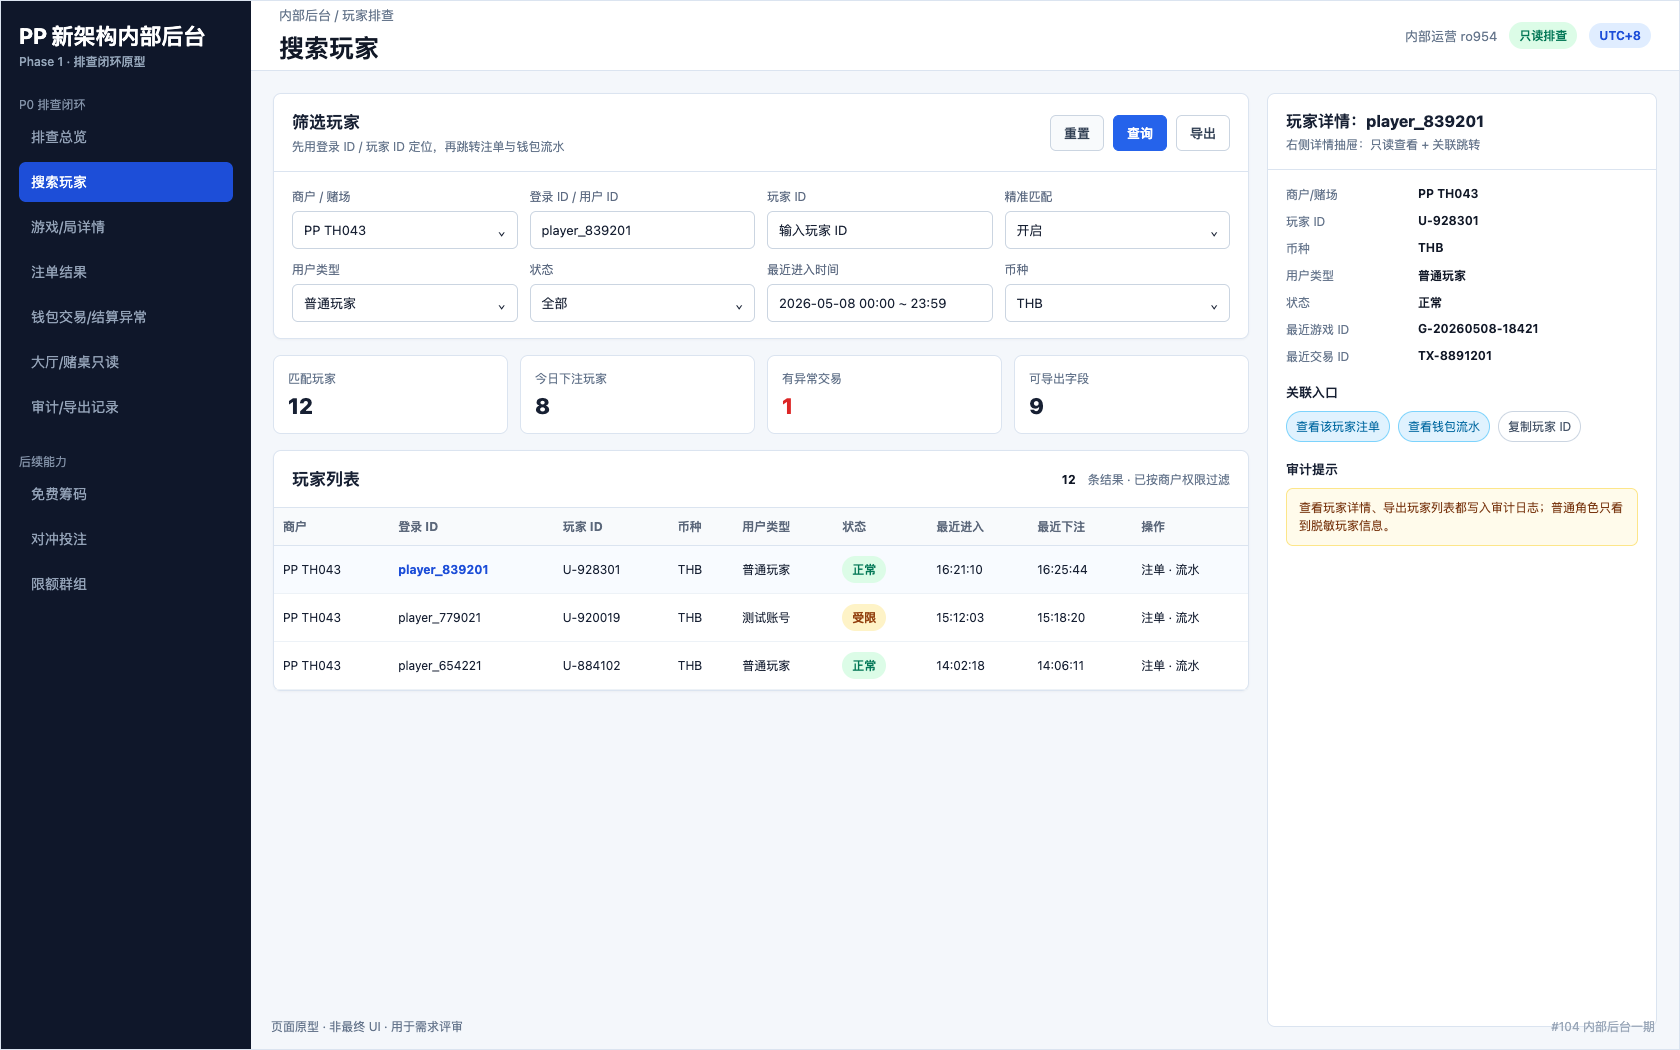
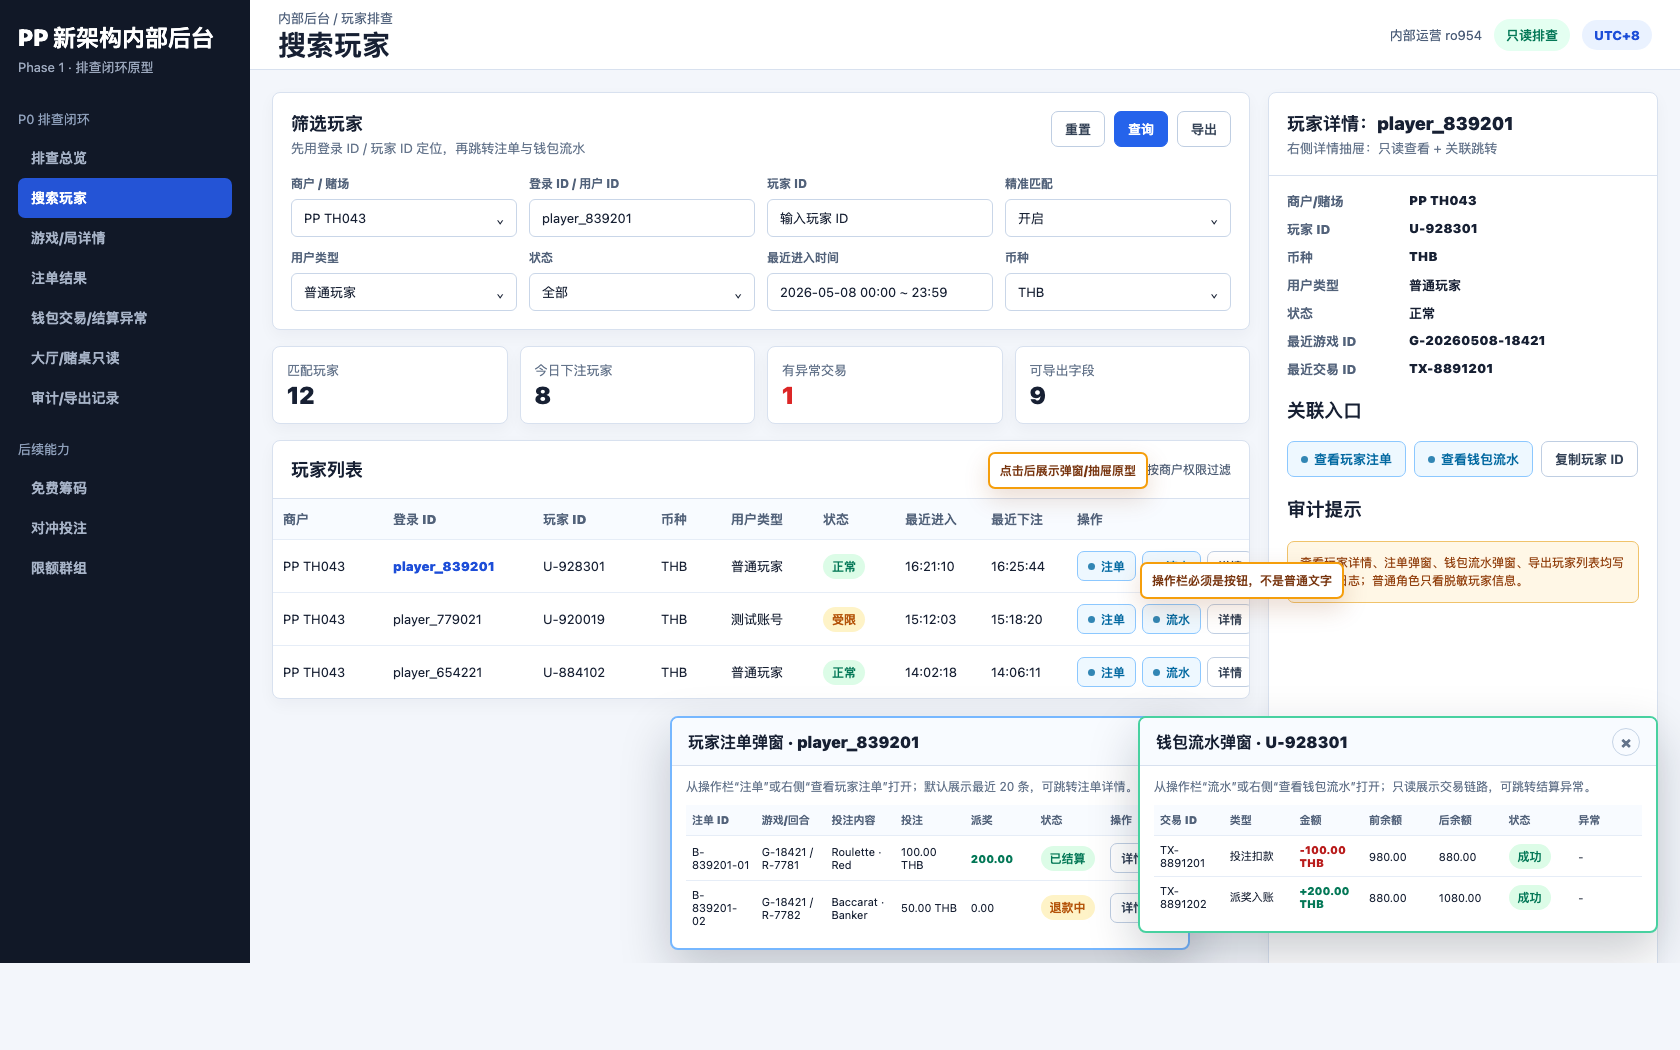
docs(pp-game): improve player search prototype actions

diff --git a/pp-game/internal-backoffice-phase1/prototypes/01-search-player-v2.html b/pp-game/internal-backoffice-phase1/prototypes/01-search-player-v2.html
@@ -1,0 +1,221 @@
+<!doctype html>
+<html lang="zh-CN">
+<head>
+  <meta charset="utf-8">
+  <meta name="viewport" content="width=device-width, initial-scale=1">
+  <title>搜索玩家页面原型 v2</title>
+  <style>
+    :root {
+      --nav: #111827;
+      --bg: #f3f6fb;
+      --panel: #fff;
+      --line: #d8e1ef;
+      --muted: #64748b;
+      --text: #172033;
+      --blue: #2563eb;
+      --blue-soft: #eaf2ff;
+      --green: #0f9f6e;
+      --green-soft: #dcfce7;
+      --amber: #b45309;
+      --amber-soft: #fef3c7;
+      --red: #dc2626;
+      --red-soft: #fee2e2;
+    }
+    * { box-sizing: border-box; }
+    body {
+      margin: 0;
+      width: 1680px;
+      height: 1050px;
+      overflow: hidden;
+      background: var(--bg);
+      color: var(--text);
+      font-family: -apple-system, BlinkMacSystemFont, "Segoe UI", "PingFang SC", "Microsoft YaHei", Arial, sans-serif;
+      letter-spacing: 0;
+    }
+    .app { display: grid; grid-template-columns: 250px 1fr; height: 1050px; }
+    .sidebar { background: var(--nav); color: #d6deef; padding: 22px 18px; }
+    .brand { color: #fff; font-size: 23px; font-weight: 900; margin-bottom: 4px; }
+    .phase { font-size: 13px; color: #9ca8bd; margin-bottom: 34px; }
+    .nav-title { color: #8fa0bb; font-size: 13px; margin: 22px 0 10px; }
+    .nav-item { height: 40px; display: flex; align-items: center; padding: 0 13px; border-radius: 7px; font-weight: 700; font-size: 14px; }
+    .nav-item.active { background: #2454d6; color: #fff; }
+    .nav-item.dim { color: #a8b4c8; }
+    .main { display: grid; grid-template-rows: 70px 1fr; min-width: 0; }
+    .topbar { background: #fff; border-bottom: 1px solid var(--line); display: flex; justify-content: space-between; align-items: center; padding: 0 28px; }
+    .crumb { color: #51627c; font-size: 13px; }
+    h1 { margin: 3px 0 0; font-size: 28px; line-height: 1.1; }
+    .user { display: flex; gap: 12px; align-items: center; font-size: 13px; color: #4b5d78; }
+    .badge { border-radius: 999px; background: #e4fff1; color: #047857; padding: 7px 12px; font-weight: 800; }
+    .utc { border-radius: 999px; background: #eaf2ff; color: #1d4ed8; padding: 7px 12px; font-weight: 800; }
+    .content { position: relative; padding: 22px; display: grid; grid-template-columns: minmax(0, 1fr) 390px; gap: 18px; }
+    .card { background: var(--panel); border: 1px solid var(--line); border-radius: 8px; box-shadow: 0 6px 16px rgba(15, 23, 42, .04); }
+    .filter { padding: 18px; }
+    .card-title { font-size: 18px; font-weight: 900; margin-bottom: 3px; }
+    .hint { color: var(--muted); font-size: 13px; }
+    .filter-head { display: flex; justify-content: space-between; gap: 14px; align-items: start; margin-bottom: 18px; }
+    .actions { display: flex; gap: 9px; }
+    .btn { height: 36px; border-radius: 7px; border: 1px solid #bfcee2; background: #fff; color: #334155; padding: 0 13px; font-weight: 800; font-size: 13px; display: inline-flex; align-items: center; justify-content: center; white-space: nowrap; }
+    .btn.primary { border-color: var(--blue); background: var(--blue); color: #fff; }
+    .btn.soft { border-color: #8cc8ff; background: #eef8ff; color: #0369a1; }
+    .btn.small { height: 30px; padding: 0 10px; font-size: 12px; }
+    .btn.icon::before { content: ""; width: 7px; height: 7px; border-radius: 50%; background: currentColor; margin-right: 6px; opacity: .8; }
+    .fields { display: grid; grid-template-columns: repeat(4, 1fr); gap: 12px; }
+    label { display: block; color: #52627a; font-size: 12px; font-weight: 800; margin-bottom: 7px; }
+    .input { height: 38px; border: 1px solid #c9d6e8; border-radius: 6px; padding: 0 12px; display: flex; align-items: center; justify-content: space-between; background: #fff; font-size: 13px; }
+    .metrics { display: grid; grid-template-columns: repeat(4, 1fr); gap: 12px; margin: 16px 0; }
+    .metric { padding: 14px; }
+    .metric .num { font-size: 24px; font-weight: 900; margin-top: 2px; }
+    .table-card { overflow: hidden; }
+    .table-head { display: flex; justify-content: space-between; align-items: center; padding: 16px 18px; border-bottom: 1px solid var(--line); }
+    .table-title { font-size: 18px; font-weight: 900; }
+    .result { font-size: 12px; color: #4d5d75; }
+    table { width: 100%; border-collapse: collapse; table-layout: fixed; }
+    th, td { border-bottom: 1px solid #e6edf7; text-align: left; padding: 11px 10px; font-size: 13px; vertical-align: middle; }
+    th { color: #52627a; background: #f8fbff; font-weight: 900; }
+    tr:last-child td { border-bottom: 0; }
+    .link { color: #1d4ed8; font-weight: 900; }
+    .status { display: inline-flex; border-radius: 999px; padding: 4px 9px; font-size: 12px; font-weight: 900; }
+    .ok { color: #047857; background: var(--green-soft); }
+    .limit { color: var(--amber); background: var(--amber-soft); }
+    .op-buttons { display: flex; gap: 6px; flex-wrap: nowrap; }
+    .side { overflow: hidden; }
+    .side-head { padding: 18px; border-bottom: 1px solid var(--line); }
+    .side-body { padding: 16px 18px; }
+    .kv { display: grid; grid-template-columns: 112px 1fr; gap: 10px; font-size: 13px; margin-bottom: 10px; }
+    .kv span:first-child { color: #52627a; font-weight: 800; }
+    .kv span:last-child { font-weight: 900; }
+    .entry-actions { display: flex; gap: 8px; margin: 10px 0 18px; flex-wrap: wrap; }
+    .audit { border: 1px solid #f0c36b; background: #fff7e6; color: #92400e; border-radius: 7px; padding: 12px; font-size: 12px; line-height: 1.5; }
+    .drawer { position: absolute; width: 520px; background: #fff; border: 2px solid #76b7ff; border-radius: 8px; box-shadow: 0 20px 50px rgba(15, 23, 42, .22); overflow: hidden; }
+    .drawer.bet { left: 420px; top: 646px; }
+    .drawer.wallet { right: 22px; top: 646px; border-color: #48d1a0; }
+    .drawer-head { height: 48px; display: flex; justify-content: space-between; align-items: center; padding: 0 16px; border-bottom: 1px solid var(--line); background: #f8fbff; }
+    .drawer-title { font-size: 16px; font-weight: 900; }
+    .close { width: 28px; height: 28px; border-radius: 50%; border: 1px solid #c6d4e6; display: flex; align-items: center; justify-content: center; color: #64748b; font-weight: 900; }
+    .drawer-body { padding: 12px 14px 14px; }
+    .drawer-note { font-size: 12px; color: var(--muted); margin-bottom: 10px; }
+    .mini-table th, .mini-table td { padding: 7px 6px; font-size: 11px; }
+    .money-plus { color: #047857; font-weight: 900; }
+    .money-minus { color: #b91c1c; font-weight: 900; }
+    .callout { position: absolute; background: #fff; border: 2px solid #f59e0b; color: #78350f; border-radius: 7px; padding: 8px 10px; font-size: 12px; font-weight: 900; box-shadow: 0 10px 24px rgba(146, 64, 14, .18); }
+    .callout.one { left: 890px; top: 492px; }
+    .callout.two { right: 532px; top: 382px; }
+    .footer { position: absolute; left: 272px; bottom: 8px; color: #75859d; font-size: 12px; }
+  </style>
+</head>
+<body>
+  <div class="app">
+    <aside class="sidebar">
+      <div class="brand">PP 新架构内部后台</div>
+      <div class="phase">Phase 1 · 排查闭环原型</div>
+      <div class="nav-title">P0 排查闭环</div>
+      <div class="nav-item dim">排查总览</div>
+      <div class="nav-item active">搜索玩家</div>
+      <div class="nav-item dim">游戏/局详情</div>
+      <div class="nav-item dim">注单结果</div>
+      <div class="nav-item dim">钱包交易/结算异常</div>
+      <div class="nav-item dim">大厅/赌桌只读</div>
+      <div class="nav-item dim">审计/导出记录</div>
+      <div class="nav-title">后续能力</div>
+      <div class="nav-item dim">免费筹码</div>
+      <div class="nav-item dim">对冲投注</div>
+      <div class="nav-item dim">限额群组</div>
+    </aside>
+    <main class="main">
+      <header class="topbar">
+        <div>
+          <div class="crumb">内部后台 / 玩家排查</div>
+          <h1>搜索玩家</h1>
+        </div>
+        <div class="user"><span>内部运营 ro954</span><span class="badge">只读排查</span><span class="utc">UTC+8</span></div>
+      </header>
+      <section class="content">
+        <div>
+          <div class="card filter">
+            <div class="filter-head">
+              <div>
+                <div class="card-title">筛选玩家</div>
+                <div class="hint">先用登录 ID / 玩家 ID 定位，再跳转注单与钱包流水</div>
+              </div>
+              <div class="actions"><button class="btn">重置</button><button class="btn primary">查询</button><button class="btn">导出</button></div>
+            </div>
+            <div class="fields">
+              <div><label>商户 / 赌场</label><div class="input">PP TH043 <span>⌄</span></div></div>
+              <div><label>登录 ID / 用户 ID</label><div class="input">player_839201</div></div>
+              <div><label>玩家 ID</label><div class="input">输入玩家 ID</div></div>
+              <div><label>精准匹配</label><div class="input">开启 <span>⌄</span></div></div>
+              <div><label>用户类型</label><div class="input">普通玩家 <span>⌄</span></div></div>
+              <div><label>状态</label><div class="input">全部 <span>⌄</span></div></div>
+              <div><label>最近进入时间</label><div class="input">2026-05-08 00:00 ~ 23:59</div></div>
+              <div><label>币种</label><div class="input">THB <span>⌄</span></div></div>
+            </div>
+          </div>
+          <div class="metrics">
+            <div class="card metric"><div class="hint">匹配玩家</div><div class="num">12</div></div>
+            <div class="card metric"><div class="hint">今日下注玩家</div><div class="num">8</div></div>
+            <div class="card metric"><div class="hint">有异常交易</div><div class="num" style="color: var(--red);">1</div></div>
+            <div class="card metric"><div class="hint">可导出字段</div><div class="num">9</div></div>
+          </div>
+          <div class="card table-card">
+            <div class="table-head"><div class="table-title">玩家列表</div><div class="result"><b>12</b> 条结果 · 已按商户权限过滤</div></div>
+            <table>
+              <thead><tr><th style="width: 110px;">商户</th><th style="width: 150px;">登录 ID</th><th style="width: 118px;">玩家 ID</th><th style="width: 70px;">币种</th><th style="width: 92px;">用户类型</th><th style="width: 82px;">状态</th><th style="width: 86px;">最近进入</th><th style="width: 86px;">最近下注</th><th style="width: 190px;">操作</th></tr></thead>
+              <tbody>
+                <tr><td>PP TH043</td><td class="link">player_839201</td><td>U-928301</td><td>THB</td><td>普通玩家</td><td><span class="status ok">正常</span></td><td>16:21:10</td><td>16:25:44</td><td><div class="op-buttons"><button class="btn small soft icon">注单</button><button class="btn small soft icon">流水</button><button class="btn small">详情</button></div></td></tr>
+                <tr><td>PP TH043</td><td>player_779021</td><td>U-920019</td><td>THB</td><td>测试账号</td><td><span class="status limit">受限</span></td><td>15:12:03</td><td>15:18:20</td><td><div class="op-buttons"><button class="btn small soft icon">注单</button><button class="btn small soft icon">流水</button><button class="btn small">详情</button></div></td></tr>
+                <tr><td>PP TH043</td><td>player_654221</td><td>U-884102</td><td>THB</td><td>普通玩家</td><td><span class="status ok">正常</span></td><td>14:02:18</td><td>14:06:11</td><td><div class="op-buttons"><button class="btn small soft icon">注单</button><button class="btn small soft icon">流水</button><button class="btn small">详情</button></div></td></tr>
+              </tbody>
+            </table>
+          </div>
+        </div>
+        <aside class="card side">
+          <div class="side-head">
+            <div class="card-title">玩家详情：player_839201</div>
+            <div class="hint">右侧详情抽屉：只读查看 + 关联跳转</div>
+          </div>
+          <div class="side-body">
+            <div class="kv"><span>商户/赌场</span><span>PP TH043</span></div>
+            <div class="kv"><span>玩家 ID</span><span>U-928301</span></div>
+            <div class="kv"><span>币种</span><span>THB</span></div>
+            <div class="kv"><span>用户类型</span><span>普通玩家</span></div>
+            <div class="kv"><span>状态</span><span>正常</span></div>
+            <div class="kv"><span>最近游戏 ID</span><span>G-20260508-18421</span></div>
+            <div class="kv"><span>最近交易 ID</span><span>TX-8891201</span></div>
+            <h3>关联入口</h3>
+            <div class="entry-actions">
+              <button class="btn soft icon">查看玩家注单</button>
+              <button class="btn soft icon">查看钱包流水</button>
+              <button class="btn">复制玩家 ID</button>
+            </div>
+            <h3>审计提示</h3>
+            <div class="audit">查看玩家详情、注单弹窗、钱包流水弹窗、导出玩家列表均写入审计日志；普通角色只看脱敏玩家信息。</div>
+          </div>
+        </aside>
+        <div class="callout one">操作栏必须是按钮，不是普通文字</div>
+        <div class="callout two">点击后展示弹窗/抽屉原型</div>
+        <section class="drawer bet">
+          <div class="drawer-head"><div class="drawer-title">玩家注单弹窗 · player_839201</div><div class="close">×</div></div>
+          <div class="drawer-body">
+            <div class="drawer-note">从操作栏“注单”或右侧“查看玩家注单”打开；默认展示最近 20 条，可跳转注单详情。</div>
+            <table class="mini-table"><thead><tr><th>注单 ID</th><th>游戏/回合</th><th>投注内容</th><th>投注</th><th>派奖</th><th>状态</th><th>操作</th></tr></thead><tbody>
+              <tr><td>B-839201-01</td><td>G-18421 / R-7781</td><td>Roulette · Red</td><td>100.00 THB</td><td class="money-plus">200.00</td><td><span class="status ok">已结算</span></td><td><button class="btn small">详情</button></td></tr>
+              <tr><td>B-839201-02</td><td>G-18421 / R-7782</td><td>Baccarat · Banker</td><td>50.00 THB</td><td>0.00</td><td><span class="status limit">退款中</span></td><td><button class="btn small">详情</button></td></tr>
+            </tbody></table>
+          </div>
+        </section>
+        <section class="drawer wallet">
+          <div class="drawer-head"><div class="drawer-title">钱包流水弹窗 · U-928301</div><div class="close">×</div></div>
+          <div class="drawer-body">
+            <div class="drawer-note">从操作栏“流水”或右侧“查看钱包流水”打开；只读展示交易链路，可跳转结算异常。</div>
+            <table class="mini-table"><thead><tr><th>交易 ID</th><th>类型</th><th>金额</th><th>前余额</th><th>后余额</th><th>状态</th><th>异常</th></tr></thead><tbody>
+              <tr><td>TX-8891201</td><td>投注扣款</td><td class="money-minus">-100.00 THB</td><td>980.00</td><td>880.00</td><td><span class="status ok">成功</span></td><td>-</td></tr>
+              <tr><td>TX-8891202</td><td>派奖入账</td><td class="money-plus">+200.00 THB</td><td>880.00</td><td>1080.00</td><td><span class="status ok">成功</span></td><td>-</td></tr>
+            </tbody></table>
+          </div>
+        </section>
+        <div class="footer">页面原型 · 非最终 UI · 用于需求评审 | #106 搜索玩家 v2</div>
+      </section>
+    </main>
+  </div>
+</body>
+</html>